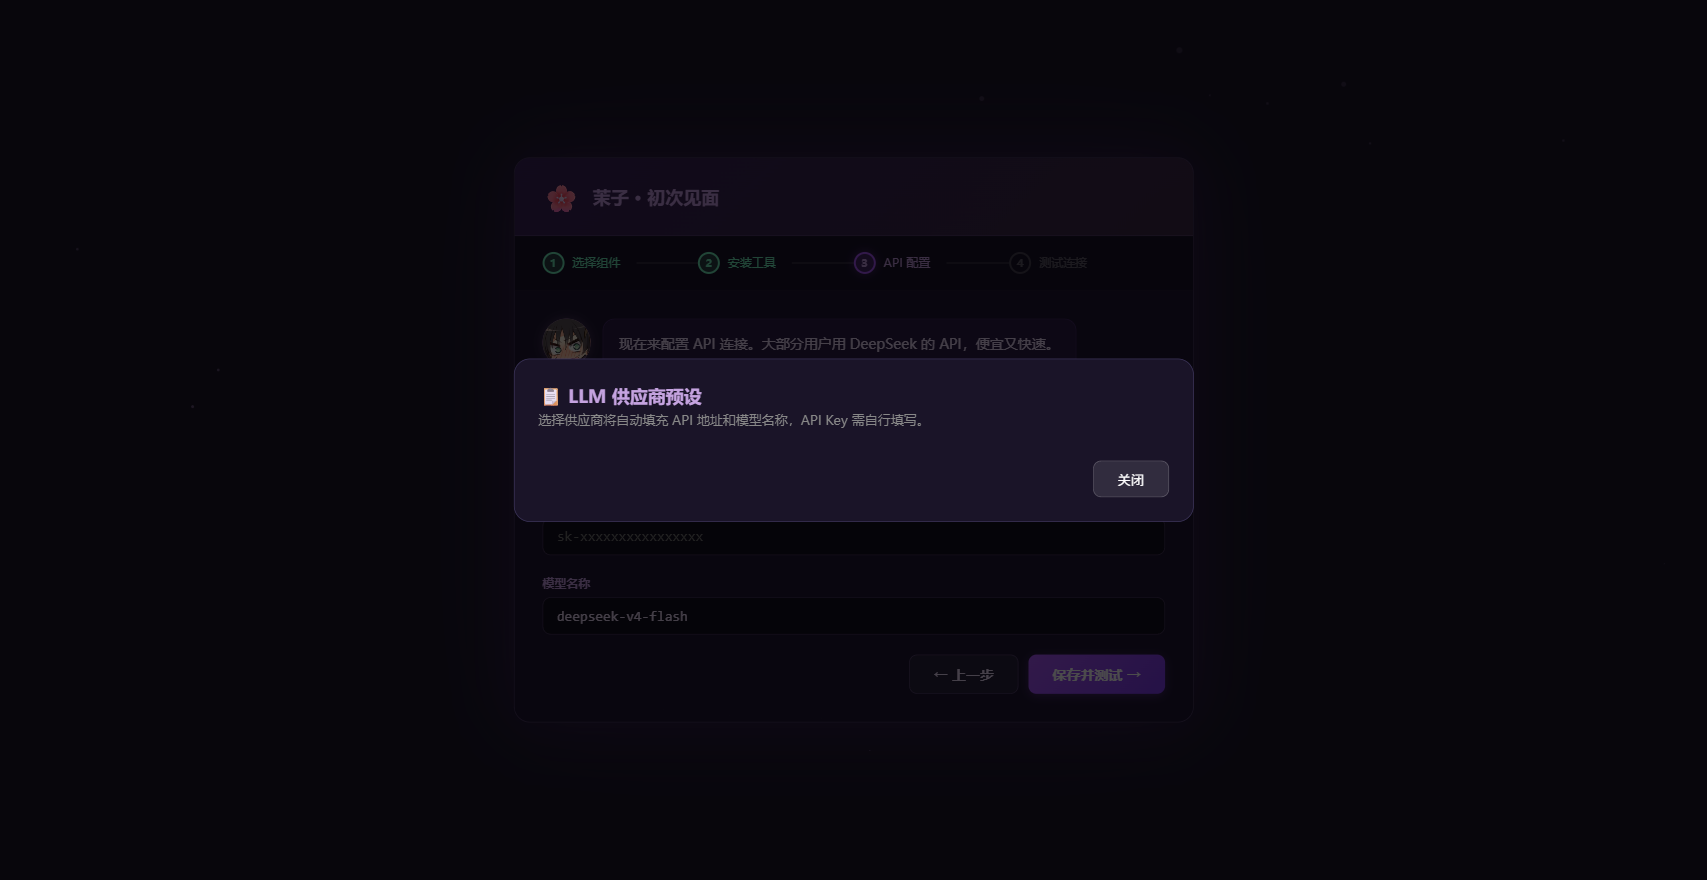
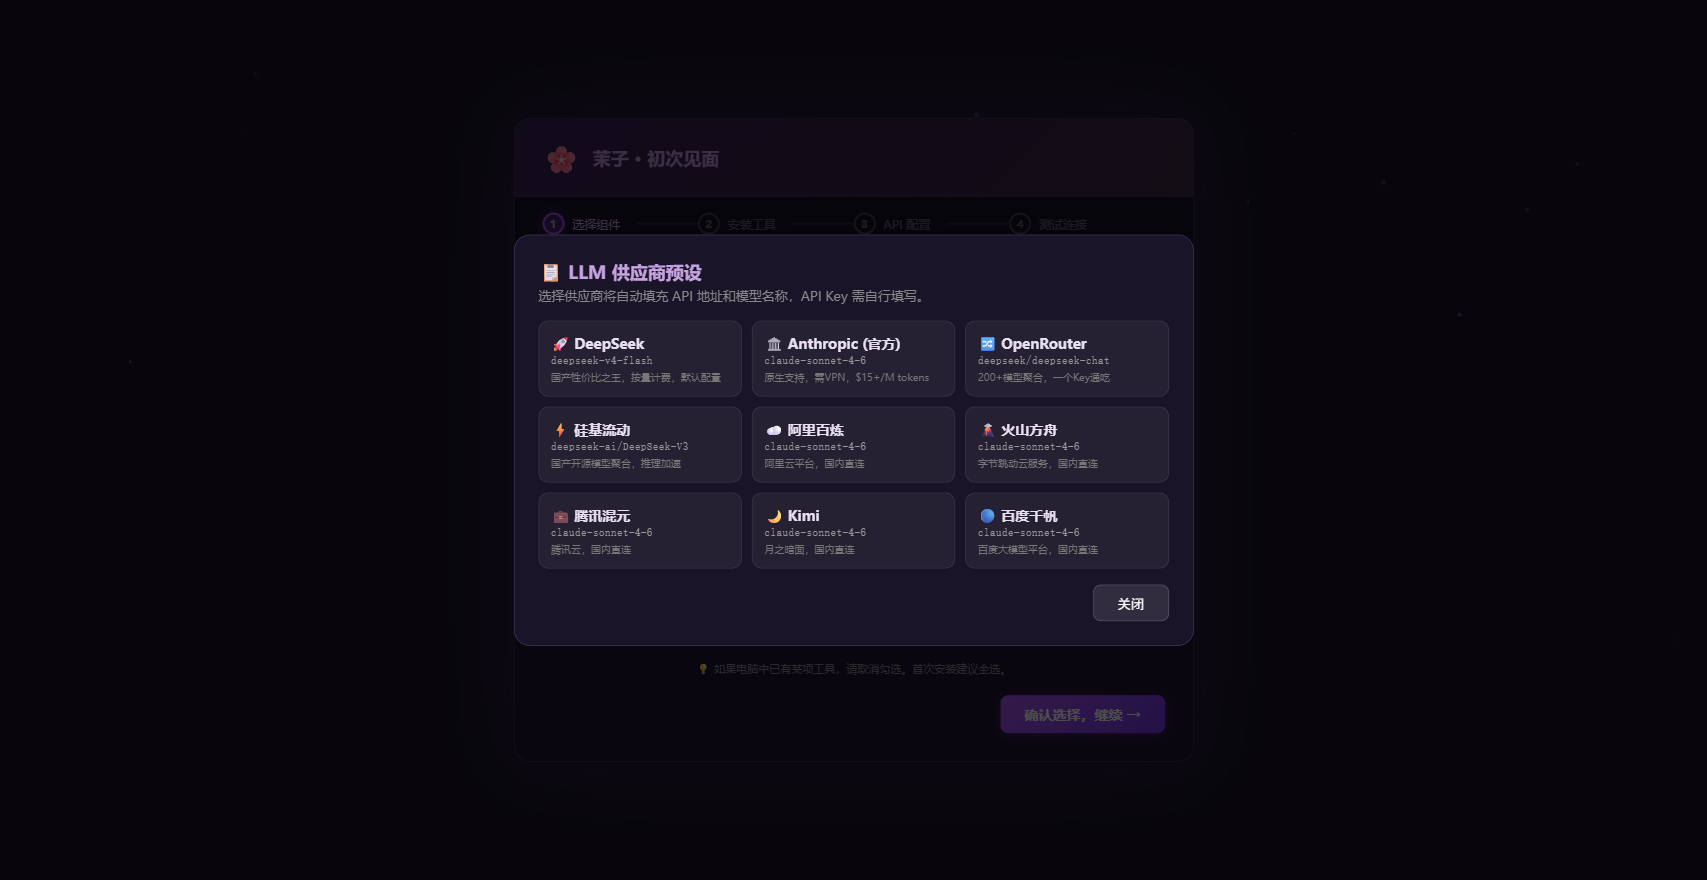
update: add chat screenshot, fix preset modal and character editor screenshots

Changed region(s): [[0.2794, 0.1534, 0.7141, 0.5523], [0.2794, 0.583, 0.7141, 0.8591], [0.5589, 0.4602, 0.6831, 0.5523]]

diff --git a/README.md b/README.md
@@ -80,16 +80,18 @@
 
 <p align="center">
   <img src="assets/screenshots/main-menu.png" alt="Galgame 风格主菜单" width="400">
+  <img src="assets/screenshots/chat.png" alt="茉子对话界面，AI 实时聊天" width="400">
+  <br>
   <img src="assets/screenshots/setup-wizard.png" alt="首次配置向导（含茉子头像对话气泡）" width="400">
-  <br>
   <img src="assets/screenshots/api-config.png" alt="API 配置界面" width="400">
-  <img src="assets/screenshots/preset-modal.png" alt="LLM 供应商预设弹窗" width="400">
   <br>
+  <img src="assets/screenshots/preset-modal.png" alt="LLM 供应商预设弹窗（9家供应商）" width="400">
   <img src="assets/screenshots/settings-panel.png" alt="系统设置面板" width="400">
+  <br>
   <img src="assets/screenshots/character-editor.png" alt="修改茉子人设界面" width="400">
 </p>
 <p align="center">
-  <em>主菜单 ｜ 向导（含头像） ｜ API 配置 ｜ 供应商预设 ｜ 系统设置 ｜ 人设编辑</em>
+  <em>主菜单 ｜ 聊天对话 ｜ 向导 ｜ API 配置 ｜ 供应商预设 ｜ 系统设置 ｜ 人设编辑</em>
 </p>
 
 ---